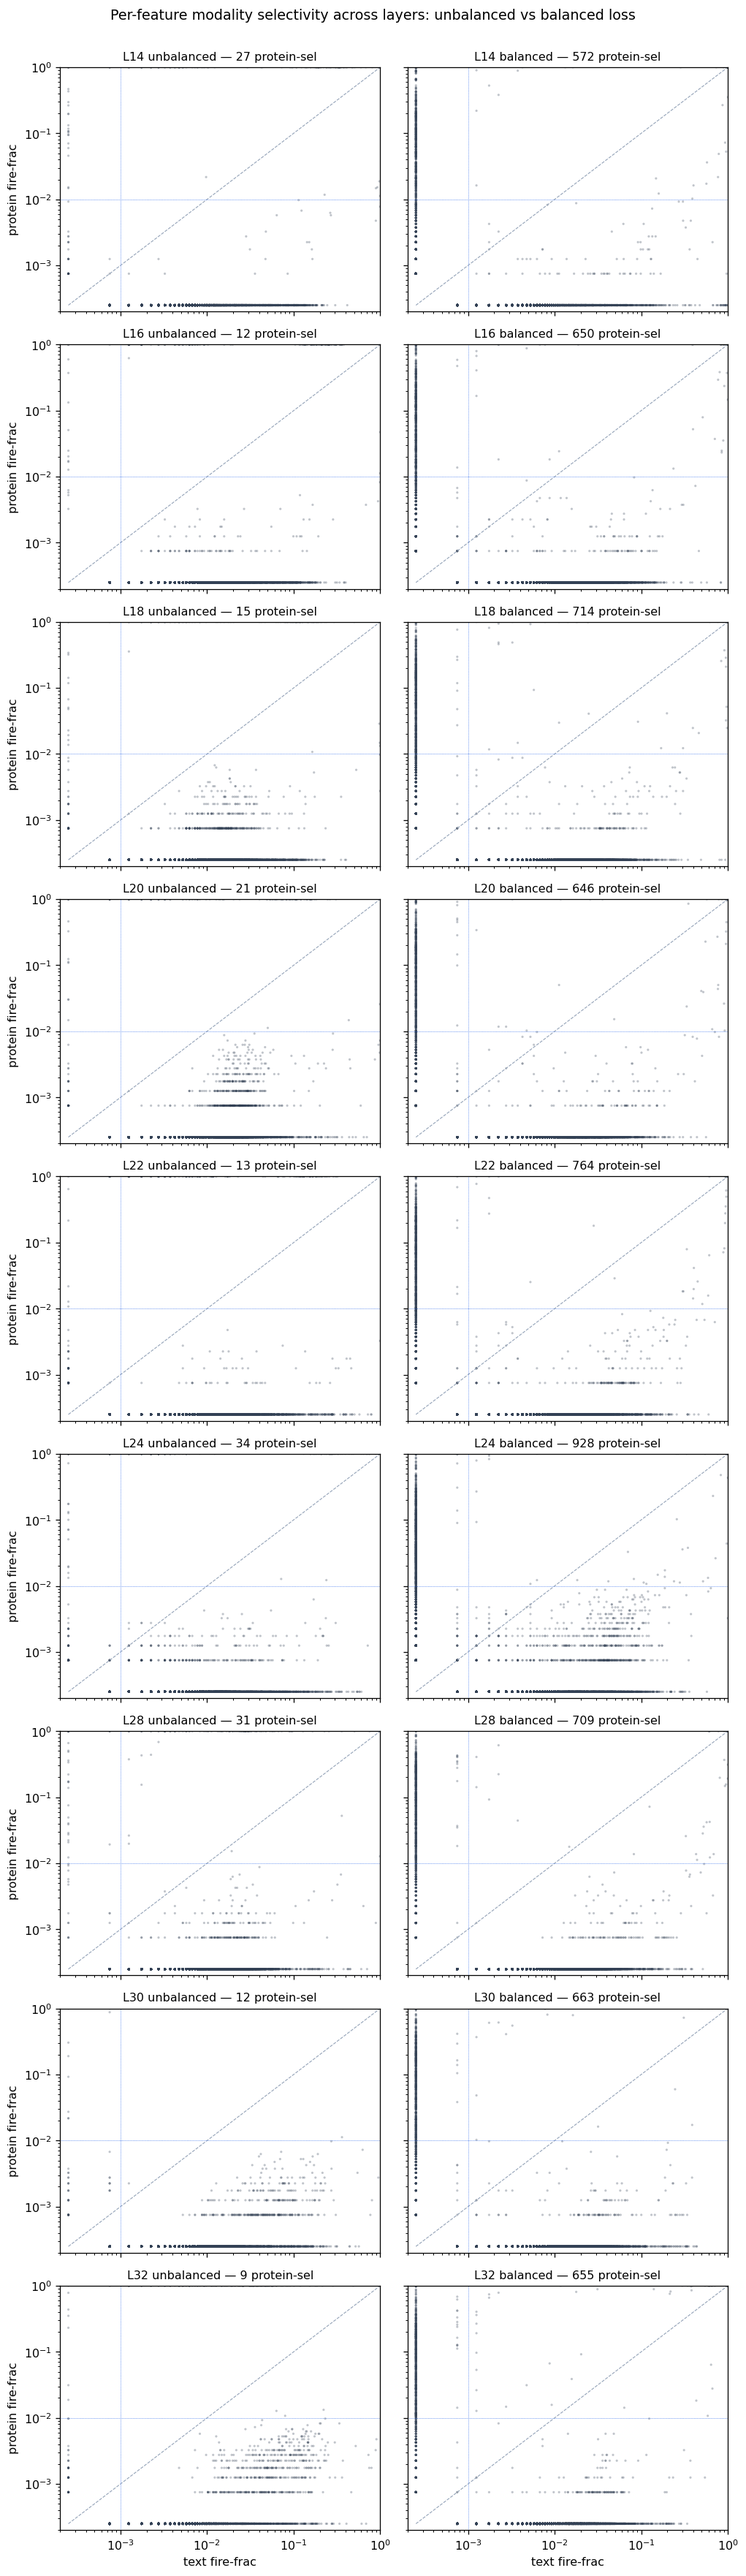
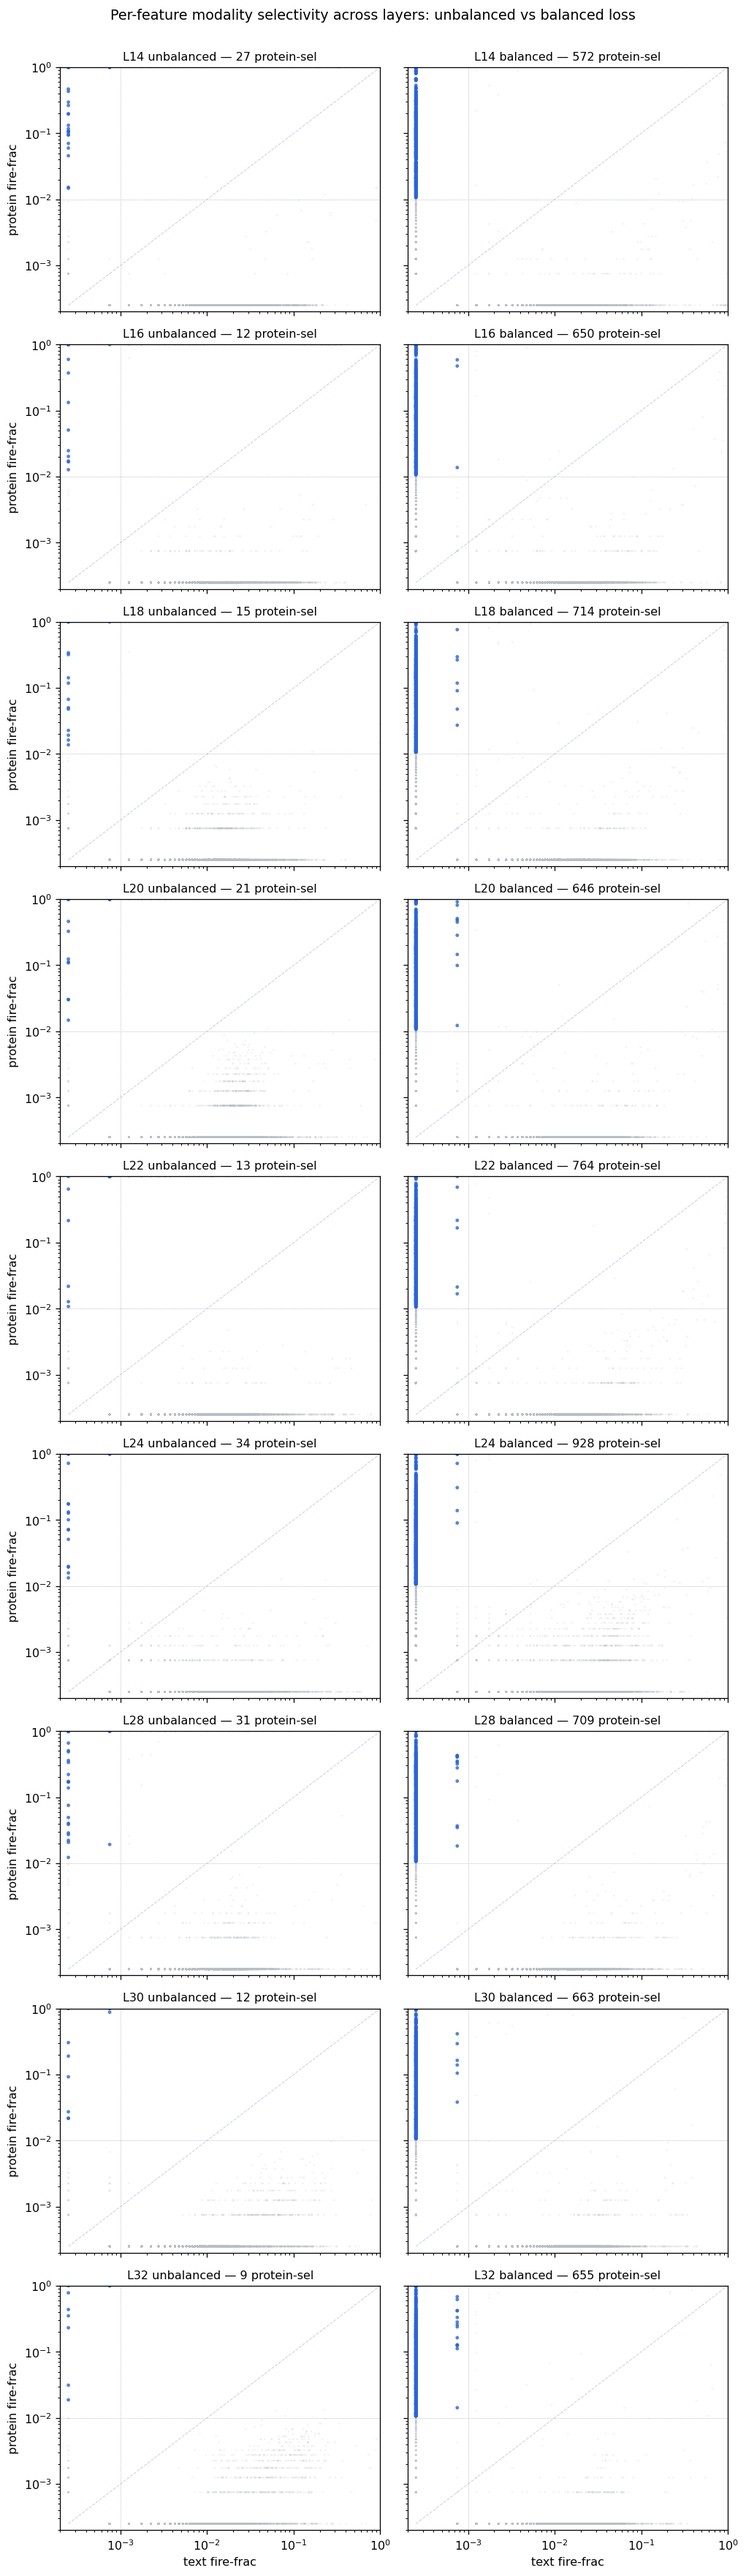
Blog figures: auto-interp pipeline diagram, fungal card, domain-F1 panel; recolor layer grid
- fig_autointerp_pipeline: illustrated pipeline (labeling=hypothesis vs scoring=trustworthy)
- fig_fungal_feature_card: F23726 across prompt/reasoning/answer bands, recurring
  fungal vocabulary highlighted across multiple proteins
- fig_domain_f1_panel: kinase-led localization panel (kinase 0.93/90-regions, RRM
  0.95/60, zinc-finger 0.93/48) + F4647 oversell; robust vs kinesin n=15
- feature gallery -> strong multi-word synthesis (translation/transporter/RAS)
- layer selectivity grid recolored: highlight protein-selective population in blue
  vs muted grey (was single-color slate); umap text blue->orange
- hard-crop all figures. Wire pipeline/fungal/domain-F1 into BLOG.md.

diff --git a/bionemo-recipes/interpretability/sparse_autoencoders/recipes/bioreason_pro/scripts/make_feature_figs.py b/bionemo-recipes/interpretability/sparse_autoencoders/recipes/bioreason_pro/scripts/make_feature_figs.py
@@ -9,6 +9,18 @@ import numpy as np, pyarrow.parquet as pq
 import matplotlib
 matplotlib.use("Agg")
 import matplotlib.pyplot as plt
+from PIL import Image, ImageChops
+
+
+def autocrop(path, pad=14):
+    """Hard-trim white borders so there is zero trailing whitespace."""
+    im = Image.open(path).convert("RGB")
+    bg = Image.new("RGB", im.size, (255, 255, 255))
+    bbox = ImageChops.difference(im, bg).getbbox()
+    if bbox:
+        l, t, r, b = bbox
+        im = im.crop((max(0, l - pad), max(0, t - pad), min(im.width, r + pad), min(im.height, b + pad)))
+        im.save(path)
 
 PUB = ("/data/savithas/phase3-wt/bionemo-recipes/interpretability/sparse_autoencoders/recipes/"
        "bioreason_pro/multimodal_dashboard/public/l30_balanced/feature_examples.parquet")
@@ -169,3 +181,94 @@ ct.sub("reasoning partner (text) — the mechanism the model writes for those pr
 ct.wins(windows(3184, "reasoning", 1))
 fig.savefig(OUT + "fig_crossmodal_alignment.png", dpi=170, facecolor="white", bbox_inches="tight")
 print("wrote fig_crossmodal_alignment.png")
+
+# ===== FIGURE D: auto-interp pipeline diagram =====
+from matplotlib.patches import FancyBboxPatch, FancyArrowPatch
+
+
+def box(ax, cx, cy, w, h, text, fc="#f5f2ec", ec="#c9c3b6", tc=INK, fs=9.5, bold=False):
+    ax.add_patch(FancyBboxPatch((cx - w / 2, cy - h / 2), w, h, boxstyle="round,pad=0.004,rounding_size=0.012",
+                                fc=fc, ec=ec, lw=1.4, transform=ax.transAxes, mutation_aspect=0.45))
+    ax.text(cx, cy, text, transform=ax.transAxes, ha="center", va="center", fontsize=fs, family=MONO,
+            color=tc, fontweight="bold" if bold else "normal", linespacing=1.35)
+
+
+def arrow(ax, x0, y0, x1, y1):
+    ax.add_patch(FancyArrowPatch((x0, y0), (x1, y1), transform=ax.transAxes, arrowstyle="-|>",
+                                 mutation_scale=13, color="#9a948a", lw=1.6))
+
+
+fig = plt.figure(figsize=(9.6, 6.6)); fig.patch.set_facecolor("white")
+ax = fig.add_axes([0, 0, 1, 1]); ax.axis("off")
+ax.text(0.5, 0.965, "The auto-interp pipeline", ha="center", family=MONO, fontsize=15, fontweight="bold", color=INK)
+ax.text(0.5, 0.928, "name a feature from its firing — then never trust the name alone",
+        ha="center", family=MONO, fontsize=9.5, color=MUTED)
+LX, RX, W, H = 0.27, 0.74, 0.40, 0.088
+ax.text(LX, 0.885, "LABELING  (a hypothesis)", ha="center", family=MONO, fontsize=10, fontweight="bold", color="#c26a1a")
+ax.text(RX, 0.885, "SCORING  (trustworthy)", ha="center", family=MONO, fontsize=10, fontweight="bold", color="#5f8f4c")
+LY = [0.80, 0.645, 0.49, 0.335]
+box(ax, LX, LY[0], W, H, "SAE feature  →  top-firing windows\n(select a band: protein / reasoning / ...)")
+box(ax, LX, LY[1], W, H, "strip GO: / IPR: accessions\n(read reasoning, not label echo)")
+box(ax, LX, LY[2], W, H, "mark the full active phrase\n(span-aware, not a fixed window)")
+box(ax, LX, LY[3], W, H, "LLM names the concept", fc="#fdecd9", ec="#e0932f")
+for i in range(3):
+    arrow(ax, LX, LY[i] - H / 2, LX, LY[i + 1] + H / 2)
+box(ax, RX, LY[0], W, H, "protein → GO / InterPro labels")
+box(ax, RX, LY[1], W, H, "per-feature AUROC\n(does it predict the concept?)")
+box(ax, RX, LY[2], W, H, "AUROC score", fc="#e6f0e0", ec="#7fae6b")
+for i in range(2):
+    arrow(ax, RX, LY[i] - H / 2, RX, LY[i + 1] + H / 2)
+box(ax, 0.5, 0.14, 0.86, 0.10,
+    "discipline:  rank by AUROC  →  read the marked windows  →  the LLM label is only a hint",
+    fc="#f5f2ec", ec="#b9b3a6", fs=10.5, bold=True)
+arrow(ax, LX, LY[3] - H / 2, 0.40, 0.14 + 0.05)
+arrow(ax, RX, LY[2] - H / 2, 0.60, 0.14 + 0.05)
+ax.text(0.5, 0.035, 'e.g. F23726 labeled "amino acid transport" (miss) — but AUROC 0.975 → genuinely fungal',
+        ha="center", family=MONO, fontsize=8.5, color=MUTED, style="italic")
+fig.savefig(OUT + "fig_autointerp_pipeline.png", dpi=170, facecolor="white", bbox_inches="tight")
+print("wrote fig_autointerp_pipeline.png")
+
+# ===== FIGURE E: rich fungal feature card (F23726, multi-example, 3 bands, recurring vocab) =====
+fig, c = new_fig(6.0)
+c.header("Feature 23726  —  filamentous fungi (pathogen detector)", big=True)
+c.sub("fungal-defense AUROC 0.975   ·   recurring vocabulary across examples: filamentous · fungi · Aspergillus · Helminthosporium · Peronospora · antifungal")
+c.gap(0.5)
+c.header("Reasoning band  →  names specific fungi + mechanism (multiple proteins)")
+c.wins(windows(23726, "reasoning", 4, ctx=6, maxlen=32))
+c.rule()
+c.header("Prompt band  →  GO-accession echo    ·    Answer band  →  restatement")
+c.sub("prompt (given annotations)")
+c.wins(windows(23726, "prompt", 1))
+c.gap(0.3)
+c.sub("answer (final GO output)")
+c.wins(windows(23726, "answer", 1))
+fig.savefig(OUT + "fig_fungal_feature_card.png", dpi=170, facecolor="white", bbox_inches="tight")
+print("wrote fig_fungal_feature_card.png")
+
+# ===== FIGURE F: domain-F1 localization panel (kinase-led, robust; not kinesin-only) =====
+DOM = [
+    (18647, "Protein kinase domain (IPR000719)", "domain-F1 0.93 · 90 regions · fires on the catalytic motifs (DFG · GTPYY · APE)"),
+    (13950, "RNA-binding domain (RRM)", "domain-F1 0.95 · 60 regions"),
+    (8277, "Zinc finger, C2H2-type", "domain-F1 0.93 · 48 regions"),
+    (4647, "the AUROC-oversell contrast", "AUROC 0.98  BUT  domain-F1 0.00 — fires OUTSIDE any domain (why AUROC alone misleads)"),
+]
+fig, c = new_fig(5.4)
+c.header("Protein-domain features localize  —  domain-F1", big=True)
+c.sub("residue-band firing (amino acids; orange = activation). domain-F1 rewards firing INSIDE the annotated domain, not merely correlating with it.")
+c.gap(0.5)
+for i, (fid, dom, sub) in enumerate(DOM):
+    c.header(f"Feature {fid}  —  {dom}")
+    c.sub(sub)
+    c.wins(windows(fid, "protein", 1, ctx=(12 if fid == 4647 else 2), maxlen=48))
+    if i < len(DOM) - 1:
+        c.rule()
+c.gap(0.2)
+c.sub("(kinesin F18393 scores the highest domain-F1, 0.98, but on only 15 regions — small-n; this kinase / RNA / zinc panel is the robust result.)")
+fig.savefig(OUT + "fig_domain_f1_panel.png", dpi=170, facecolor="white", bbox_inches="tight")
+print("wrote fig_domain_f1_panel.png")
+
+# hard-crop all generated figures
+for f in ["fig_autointerp_walkthrough", "fig_feature_gallery", "fig_crossmodal_alignment",
+          "fig_autointerp_pipeline", "fig_fungal_feature_card", "fig_domain_f1_panel"]:
+    autocrop(OUT + f + ".png")
+print("autocropped all")

diff --git a/bionemo-recipes/interpretability/sparse_autoencoders/recipes/bioreason_pro/scripts/layer_balance_grids.py b/bionemo-recipes/interpretability/sparse_autoencoders/recipes/bioreason_pro/scripts/layer_balance_grids.py
@@ -131,10 +131,14 @@ def main():
             A = ax[r, c]
             pf, tf = d[f"{tag}_pf"], d[f"{tag}_tf"]
             live = (pf > 0) | (tf > 0)
-            A.scatter(tf[live] + eps, pf[live] + eps, s=4, alpha=0.3, c="#334155", edgecolors="none")
+            psel = live & (pf > 0.01) & (tf < 0.001)     # protein-selective population (top-left)
+            rest = live & ~psel
+            A.scatter(tf[rest] + eps, pf[rest] + eps, s=3, alpha=0.18, c="#b8bec6", edgecolors="none")
+            A.scatter(tf[psel] + eps, pf[psel] + eps, s=9, alpha=0.8, c="#2563eb", edgecolors="none",
+                      label="protein-selective")
             A.set_xscale("log"); A.set_yscale("log")
-            A.plot([eps, 1], [eps, 1], ls="--", lw=0.7, c="#94a3b8")
-            A.axhline(0.01, color="#2563eb", lw=0.5, ls=":"); A.axvline(0.001, color="#2563eb", lw=0.5, ls=":")
+            A.plot([eps, 1], [eps, 1], ls="--", lw=0.7, c="#cbd5e1")
+            A.axhline(0.01, color="#9aa3ad", lw=0.5, ls=":"); A.axvline(0.001, color="#9aa3ad", lw=0.5, ls=":")
             A.set_xlim(eps * 0.8, 1); A.set_ylim(eps * 0.8, 1)
             A.set_title(f"L{N} {ttl} — {d[f'{tag}_ps']} protein-sel", fontsize=10)
             if r == nrow - 1:
@@ -156,7 +160,7 @@ def main():
                 ("balanced code", d["emb_bal"])]
         for c, (ttl, emb) in enumerate(embs):
             A = ax[r, c]
-            for cl, name, col in [(0, "protein", "#2563eb"), (1, "text", "#9333ea")]:
+            for cl, name, col in [(0, "protein", "#2563eb"), (1, "text", "#e8710a")]:
                 m = lab == cl
                 A.scatter(emb[m, 0], emb[m, 1], s=4, alpha=0.4, c=col, label=name)
             A.set_title(f"L{N} {ttl}", fontsize=10); A.set_xticks([]); A.set_yticks([])

diff --git a/bionemo-recipes/interpretability/sparse_autoencoders/recipes/bioreason_pro/results/BLOG.md b/bionemo-recipes/interpretability/sparse_autoencoders/recipes/bioreason_pro/results/BLOG.md
@@ -63,6 +63,9 @@ Two disciplines govern every number below:
 - **The leak floor.** The reasoning text often *states* the function, so a random-initialized SAE already "decodes" it. We train a probe on a random SAE as a **leak floor** and trust only the margin `sae_sparse − random`.
 - **Scoring vs labeling.** We separate **scoring** (label-grounded per-feature AUROC — trustworthy) from **labeling** (an LLM auto-interp read of a feature's top windows — a hypothesis). Our auto-interp pipeline takes a feature's top-firing windows in a chosen band, **strips cited `GO:`/`IPR` accessions** (so the LLM interprets reasoning, not label echo), marks the **full active phrase** (span-aware), and asks for one concept. We treat the label as a hint and always confirm by AUROC + reading the windows — because the pipeline both *misses* (F23726, fungal AUROC 0.975, mislabeled "amino acid transport") and *oversells* (F15775 "autophagy", fungal AUROC only 0.572).
 
+![the auto-interp pipeline](charts/fig_autointerp_pipeline.png)
+> **The auto-interp pipeline.** Two tracks: *labeling* (a hypothesis — read the firing, strip accessions, mark the full phrase, let an LLM name it) and *scoring* (trustworthy — per-feature AUROC against GO/InterPro). The discipline: rank by AUROC, read the marked windows, treat the LLM label as only a hint.
+
 ![auto-interp walkthrough](charts/fig_autointerp_walkthrough.png)
 > **Reading a feature per band.** Feature 36488 (antimicrobial defense) on its **reasoning** band writes genuine mechanism ("defense circuits against fungal invasion… pathogenesis-related promoters integrate ethylene with salicylic acid… pattern-recognition receptor signaling"); the *same* feature on the **prompt** band merely echoes the given `GO:` accessions ("defense response to other organism…"). We interpret the reasoning band only, accessions stripped. Orange = activation strength.
 
@@ -87,6 +90,9 @@ The genuine set has a biological shape: **pathogen-specific detectors** (F23726 
 ![enrichment](charts/enrichment.png)
 > **Per-feature GO+InterPro enrichment.** Best over-represented term per feature with hypergeometric FDR and rank-sum AUROC — the label-grounded scoring behind the tiers above.
 
+![fungal feature card](charts/fig_fungal_feature_card.png)
+> **A pathogen-detector feature (F23726), read across bands.** On the reasoning band it names specific fungi and mechanism across multiple proteins — the recurring vocabulary (*filamentous · fungi · Aspergillus · Helminthosporium · Peronospora · antifungal*) lights up in every example. The prompt band echoes GO accessions; the answer band restates. Fungal-defense AUROC 0.975.
+
 Honest caveat: a sparse probe selects *predictive* features, not features that *mean* the concept (≈⅓ are co-occurring correlates), and the **protein band has no clean defense feature** — defense is a reasoning-band phenomenon.
 
 ### 3.2 Protein-domain features: Fisher enrichment + a localization metric
@@ -103,8 +109,8 @@ But **AUROC is not localization** — a feature can score 0.98 for a domain and 
 
 Across all AUROC-passing structural features, **only ~17% (59 of 872) genuinely localize.** For structural interpretability, trust the localization metric, not the ranking metric.
 
-![per-feature structural](charts/per_feature_structural.png)
-> **Structural features by localization.** The localized minority vs the AUROC-oversell majority.
+![domain-F1 localization panel](charts/fig_domain_f1_panel.png)
+> **Protein-domain features localize.** Residue-band firing for a kinase-led panel — protein kinase (domain-F1 0.93, 90 regions), RRM (0.95, 60), zinc finger C2H2 (0.93, 48) — each fires on the domain's catalytic/structural residues. F4647 (AUROC 0.98, domain-F1 0.00) barely fires and outside any domain — the "AUROC oversell." Kinesin scores highest (0.98) but on only 15 regions, so this panel is the robust result.
 
 ### 3.3 Cross-modal exploration: aligning protein and reasoning features
 
